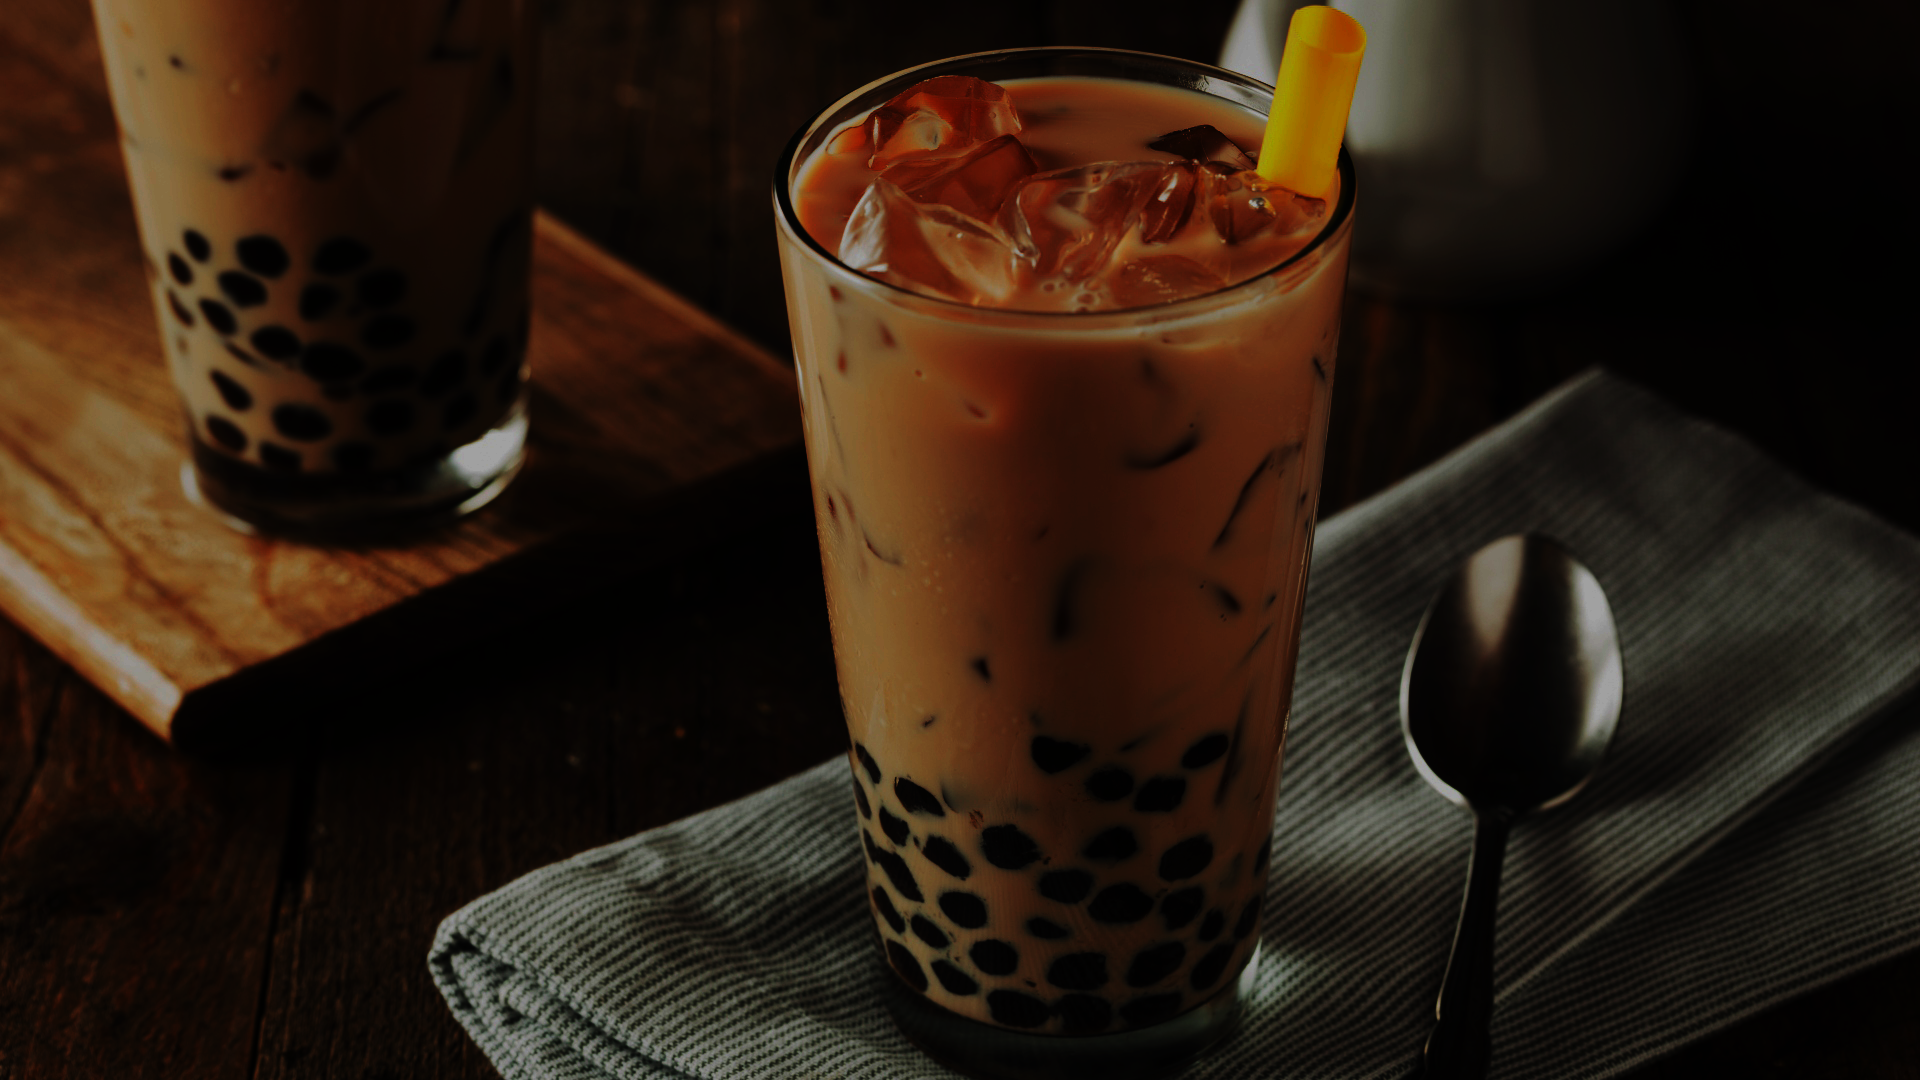
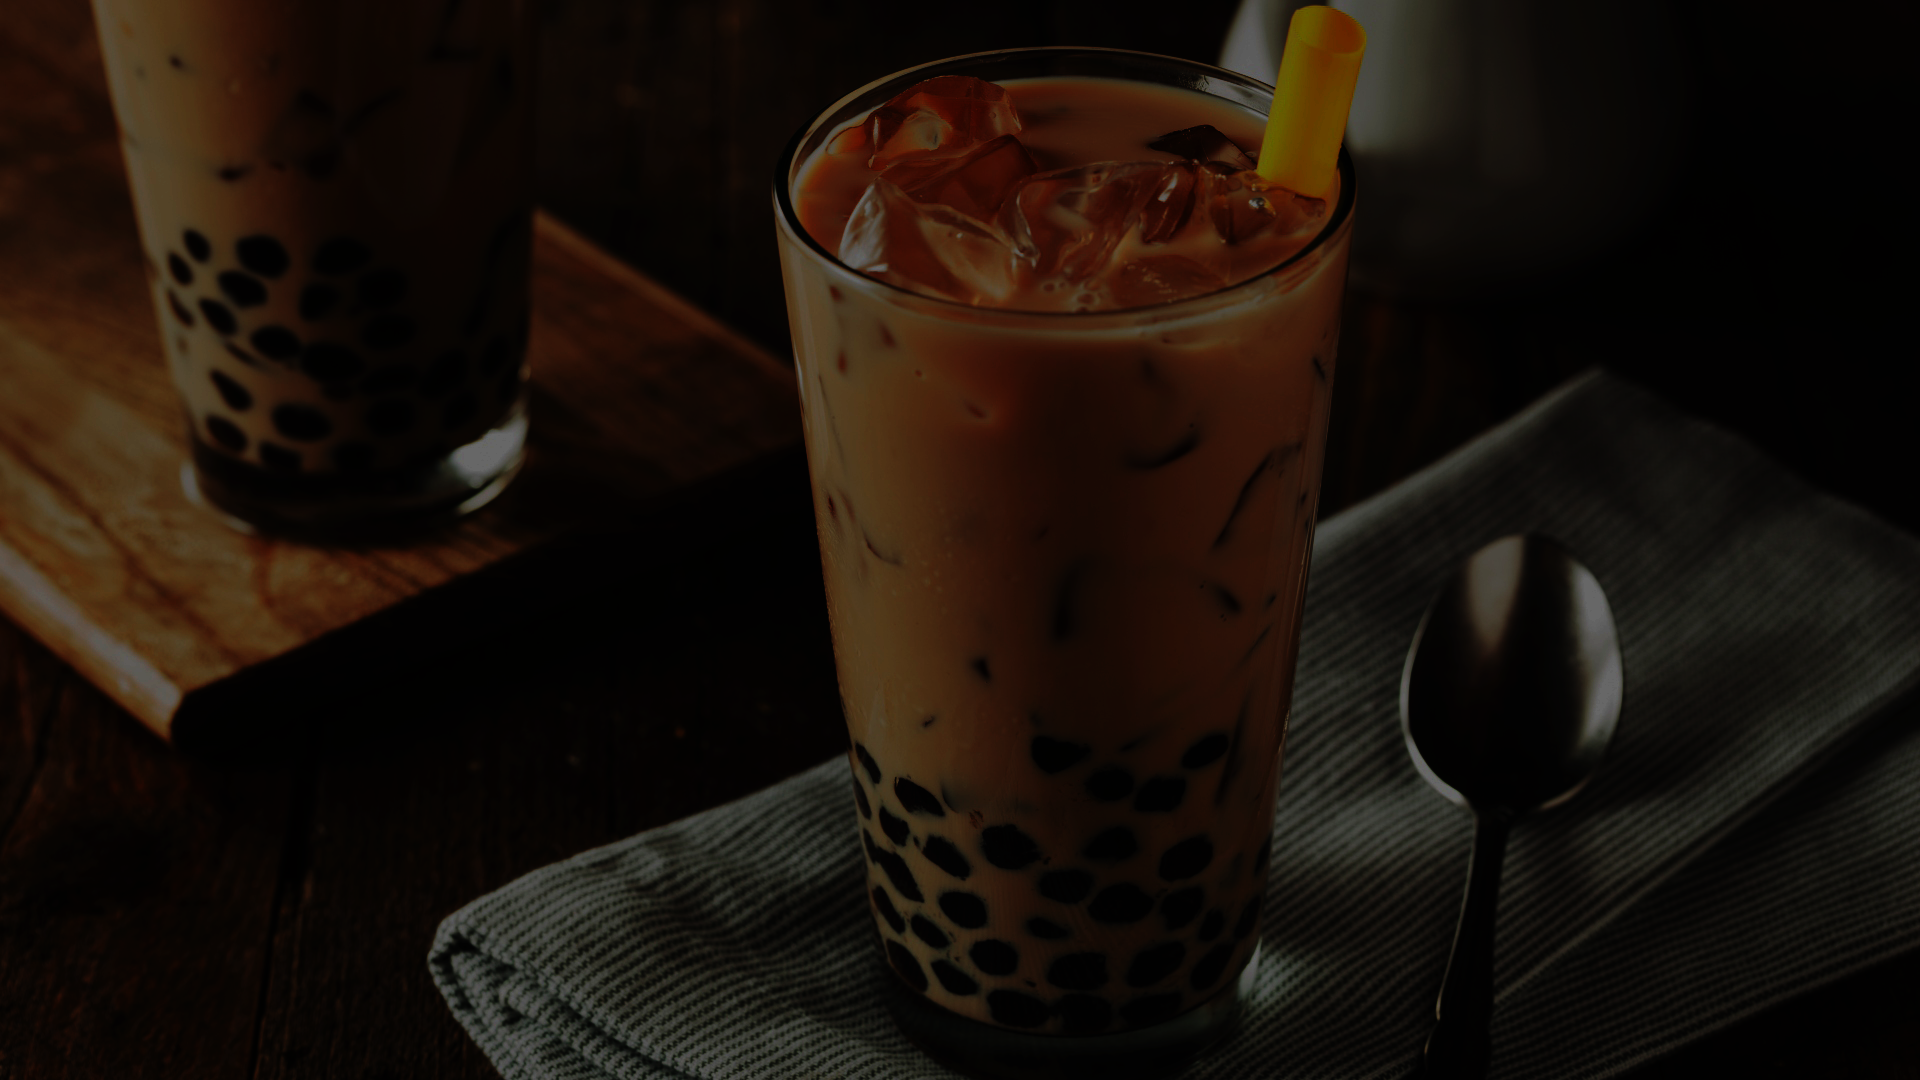
#commit change in homepage

diff --git a/src/react/app/src/App.js b/src/react/app/src/App.js
@@ -10,6 +10,21 @@ class App extends Component {
             <div className="App" style={Styles.appComponent}>
                 <Header />
                 <HomePage />
+                <div style={{backgroundColor: 'white'}}>
+                <p>is simply dummy text of the printing and typesetting industry. Lorem Ipsum has been the industry's standard dummy text ever since the 1500s, when an unknown printer took a galley of type and scrambled it to make a type specimen book. It has survived not only five centuries, but also the leap into electronic typesetting, remaining essentially unchanged. It was popularised in the 1960s with the release of Letraset sheets containing Lorem Ipsum passages, and more recently with desktop publishing software like Aldus PageMaker including versions of Lorem Ipsum.</p>
+                <p>is simply dummy text of the printing and typesetting industry. Lorem Ipsum has been the industry's standard dummy text ever since the 1500s, when an unknown printer took a galley of type and scrambled it to make a type specimen book. It has survived not only five centuries, but also the leap into electronic typesetting, remaining essentially unchanged. It was popularised in the 1960s with the release of Letraset sheets containing Lorem Ipsum passages, and more recently with desktop publishing software like Aldus PageMaker including versions of Lorem Ipsum.</p>
+                <p>is simply dummy text of the printing and typesetting industry. Lorem Ipsum has been the industry's standard dummy text ever since the 1500s, when an unknown printer took a galley of type and scrambled it to make a type specimen book. It has survived not only five centuries, but also the leap into electronic typesetting, remaining essentially unchanged. It was popularised in the 1960s with the release of Letraset sheets containing Lorem Ipsum passages, and more recently with desktop publishing software like Aldus PageMaker including versions of Lorem Ipsum.</p>
+                <p>is simply dummy text of the printing and typesetting industry. Lorem Ipsum has been the industry's standard dummy text ever since the 1500s, when an unknown printer took a galley of type and scrambled it to make a type specimen book. It has survived not only five centuries, but also the leap into electronic typesetting, remaining essentially unchanged. It was popularised in the 1960s with the release of Letraset sheets containing Lorem Ipsum passages, and more recently with desktop publishing software like Aldus PageMaker including versions of Lorem Ipsum.</p>
+                <p>is simply dummy text of the printing and typesetting industry. Lorem Ipsum has been the industry's standard dummy text ever since the 1500s, when an unknown printer took a galley of type and scrambled it to make a type specimen book. It has survived not only five centuries, but also the leap into electronic typesetting, remaining essentially unchanged. It was popularised in the 1960s with the release of Letraset sheets containing Lorem Ipsum passages, and more recently with desktop publishing software like Aldus PageMaker including versions of Lorem Ipsum.</p>
+                <p>is simply dummy text of the printing and typesetting industry. Lorem Ipsum has been the industry's standard dummy text ever since the 1500s, when an unknown printer took a galley of type and scrambled it to make a type specimen book. It has survived not only five centuries, but also the leap into electronic typesetting, remaining essentially unchanged. It was popularised in the 1960s with the release of Letraset sheets containing Lorem Ipsum passages, and more recently with desktop publishing software like Aldus PageMaker including versions of Lorem Ipsum.</p>
+                <p>is simply dummy text of the printing and typesetting industry. Lorem Ipsum has been the industry's standard dummy text ever since the 1500s, when an unknown printer took a galley of type and scrambled it to make a type specimen book. It has survived not only five centuries, but also the leap into electronic typesetting, remaining essentially unchanged. It was popularised in the 1960s with the release of Letraset sheets containing Lorem Ipsum passages, and more recently with desktop publishing software like Aldus PageMaker including versions of Lorem Ipsum.</p>
+                <p>is simply dummy text of the printing and typesetting industry. Lorem Ipsum has been the industry's standard dummy text ever since the 1500s, when an unknown printer took a galley of type and scrambled it to make a type specimen book. It has survived not only five centuries, but also the leap into electronic typesetting, remaining essentially unchanged. It was popularised in the 1960s with the release of Letraset sheets containing Lorem Ipsum passages, and more recently with desktop publishing software like Aldus PageMaker including versions of Lorem Ipsum.</p>
+                <p>is simply dummy text of the printing and typesetting industry. Lorem Ipsum has been the industry's standard dummy text ever since the 1500s, when an unknown printer took a galley of type and scrambled it to make a type specimen book. It has survived not only five centuries, but also the leap into electronic typesetting, remaining essentially unchanged. It was popularised in the 1960s with the release of Letraset sheets containing Lorem Ipsum passages, and more recently with desktop publishing software like Aldus PageMaker including versions of Lorem Ipsum.</p>
+                <p>is simply dummy text of the printing and typesetting industry. Lorem Ipsum has been the industry's standard dummy text ever since the 1500s, when an unknown printer took a galley of type and scrambled it to make a type specimen book. It has survived not only five centuries, but also the leap into electronic typesetting, remaining essentially unchanged. It was popularised in the 1960s with the release of Letraset sheets containing Lorem Ipsum passages, and more recently with desktop publishing software like Aldus PageMaker including versions of Lorem Ipsum.</p>
+                <p>is simply dummy text of the printing and typesetting industry. Lorem Ipsum has been the industry's standard dummy text ever since the 1500s, when an unknown printer took a galley of type and scrambled it to make a type specimen book. It has survived not only five centuries, but also the leap into electronic typesetting, remaining essentially unchanged. It was popularised in the 1960s with the release of Letraset sheets containing Lorem Ipsum passages, and more recently with desktop publishing software like Aldus PageMaker including versions of Lorem Ipsum.</p>
+                <p>is simply dummy text of the printing and typesetting industry. Lorem Ipsum has been the industry's standard dummy text ever since the 1500s, when an unknown printer took a galley of type and scrambled it to make a type specimen book. It has survived not only five centuries, but also the leap into electronic typesetting, remaining essentially unchanged. It was popularised in the 1960s with the release of Letraset sheets containing Lorem Ipsum passages, and more recently with desktop publishing software like Aldus PageMaker including versions of Lorem Ipsum.</p>
+                <p>is simply dummy text of the printing and typesetting industry. Lorem Ipsum has been the industry's standard dummy text ever since the 1500s, when an unknown printer took a galley of type and scrambled it to make a type specimen book. It has survived not only five centuries, but also the leap into electronic typesetting, remaining essentially unchanged. It was popularised in the 1960s with the release of Letraset sheets containing Lorem Ipsum passages, and more recently with desktop publishing software like Aldus PageMaker including versions of Lorem Ipsum.</p>
+                </div>
                 <Footer />
             </div>
         )

diff --git a/src/react/header/src/Header.js b/src/react/header/src/Header.js
@@ -73,10 +73,10 @@ export default function Header() {
     
     return (
         <div className={headerChanges.headerContainer} style={Styles.headerContainer}>
-            <div className={headerChanges.headerLogoContainer} style={{...Styles.headerLogoNameContainer(windowSize.width), ... windowSize.width < 1200 && {justifyContent: 'start'}}}>
+            <div className={headerChanges.headerLogoContainer} style={{...Styles.headerLogoNameContainer(windowSize.width), ... windowSize.width < 1000 && {justifyContent: 'start'}}}>
                 <p className="logoName" style={Styles.headerLogoName(windowSize.width)}>Milkteahan</p>
             </div>
-            <div className="menuButtonsContainer" style={{...Styles.menuButtonsContainer, ... windowSize.width < 1200 && {display: 'none'}}}>
+            <div className="menuButtonsContainer" style={{...Styles.menuButtonsContainer, ... windowSize.width < 1000 && {display: 'none'}}}>
                 <a className="menuButtons" href="" style={Styles.menuButtons}>About</a>
                 <a className="menuButtons" href="" style={Styles.menuButtons}>Locations</a>
                 <a className="menuButtons" href="" style={Styles.menuButtons}>Menu</a>

diff --git a/src/react/landing-page/src/WelcomePicture.js b/src/react/landing-page/src/WelcomePicture.js
@@ -1,13 +1,14 @@
 import React, { Component } from 'react'
-import { Header } from '../../header'
+import { getUserDevice } from '../../detect';
 import { Styles } from './styles';
+
+import { getWindowSize } from '../../detect';
+import './styles.css';
 
 class WelcomePicture extends Component {
     render() {
         return (
-            <div style={Styles.welcomePictureContainer}>
-                <div> <img src="images/milktea.png" width="100%" style={Styles.welcomePictureImage}/> </div>
-            </div>
+            <div style={{...Styles.welcomePictureContainer(getUserDevice(), getWindowSize().height)}} />
         )
     }
 }

diff --git a/src/react/landing-page/src/styles.js b/src/react/landing-page/src/styles.js
@@ -13,13 +13,16 @@ export const Styles = {
 
     topContainer: {
         width: '100%',
-        height: '100%',
+        height: '100vh',
     },
 
-    welcomePictureContainer: {
-        postion: 'relative', 
-        width: '100%', 
-        maxHeight: '100vh', 
-        overflow: "hidden", 
+    welcomePictureContainer: (isMobile, height) => {
+        return{ 
+            backgroundImage: `url('images/milktea.png')`,
+            height: height,
+            backgroundPosition: isMobile ? 'center': '',
+            backgroundRepeat: 'no-repeat',
+            backgroundAttachment: 'fixed'
+        }
     },  
 }

diff --git a/src/index.css b/src/index.css
@@ -2,7 +2,20 @@
   margin: 0;
   padding: 0;
   box-sizing: border-box;
-  font-family: 'Zilla Slab', serif;
+  font-family: 'Zilla Slab', serif;  
+}
+
+body {
+  min-height: 100vh;
+  min-height: -moz-available; /* WebKit-based browsers will ignore this. */
+  min-height: -webkit-fill-available; /* Mozilla-based browsers will ignore this. */
+  min-height: fill-available;
+}
+
+html {
+  min-height: -moz-available; /* WebKit-based browsers will ignore this. */
+  min-height: -webkit-fill-available; /* Mozilla-based browsers will ignore this. */
+  min-height: fill-available;
 }
 
 html, body, #root, .App {

diff --git a/src/react/detect/functions.js b/src/react/detect/functions.js
@@ -1,0 +1,18 @@
+import { isMobile } from 'react-device-detect';
+
+/**
+ * This function will check if the user is using mobile
+ * or Browser.
+ */
+export const getUserDevice = () => {
+    return isMobile;
+}
+
+export const getWindowSize = () => {
+    const { innerHeight, innerWidth } = window;
+
+    return {
+        height: innerHeight,
+        width: innerWidth
+    }
+}

diff --git a/src/react/landing-page/src/HomePage.js b/src/react/landing-page/src/HomePage.js
@@ -4,6 +4,7 @@ import { Styles } from './styles';
 
 import WelcomePicture from './WelcomePicture';
 
+
 class HomePage extends Component {
     render() {
         return (

diff --git a/src/react/header/src/style.css b/src/react/header/src/style.css
@@ -53,7 +53,7 @@
     }
 }
 
-@media (max-width: 1200px){
+@media (max-width: 1000px){
     .headerContainer{
         padding: 0 50px 0 50px;
     }

diff --git a/src/react/detect/index.js b/src/react/detect/index.js
@@ -1,0 +1,1 @@
+export * from './functions';
